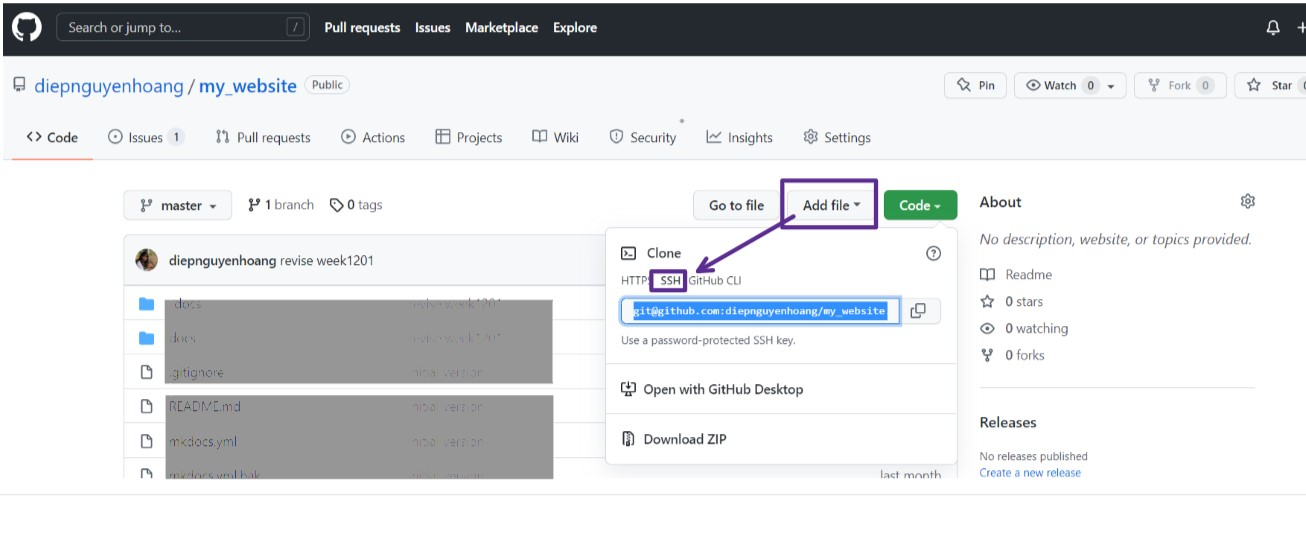
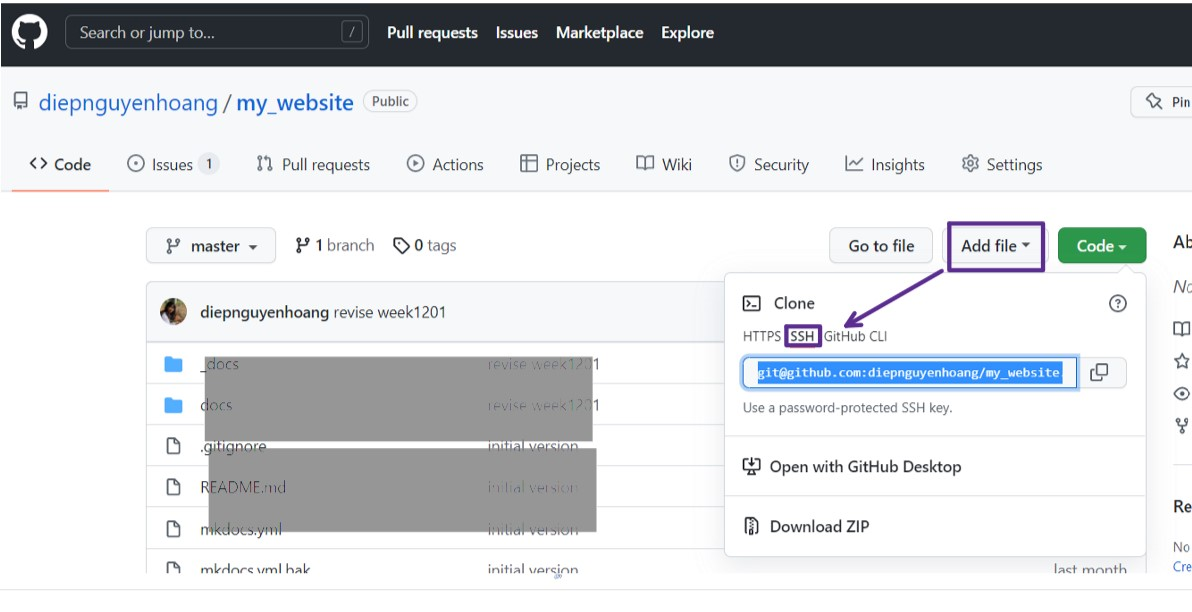
editagain

diff --git a/docs/assignments/week02/index.html b/docs/assignments/week02/index.html
@@ -618,7 +618,7 @@ Therefore, I will choose <strong>GitHub</strong> as my code hosting site instead
 <li>Download the remote repo: in the newly created repository <em>my_website</em>, go to <em>Code</em> &gt; choose SSH &gt; copy the key URL &gt; paste it in the command line with git clone </li>
 </ul>
 <p><code>git clone + git@github.com:diepnguyenhoang/my_website.git</code></p>
-<p><img alt="" src="../../images/added1.png" /></p>
+<p><img alt="" src="../../images/added1.jpg" /></p>
 <p>After the successful cloning, in my local repository <em>fablabcoursehub</em>, there is a folder named <em>my_website</em></p>
 </li>
 </ol>

diff --git a/_docs/assignments/week02.md b/_docs/assignments/week02.md
@@ -131,7 +131,7 @@ In my case, I first chose GitLab to be my GIT repository manager.
 	git clone + git@github.com:diepnguyenhoang/my_website.git
 	```
 	
-	![](../images/added1.png)
+	![](../images/added1.jpg)
 	
 	After the successful cloning, in my local repository *fablabcoursehub*, there is a folder named *my_website*
 	
